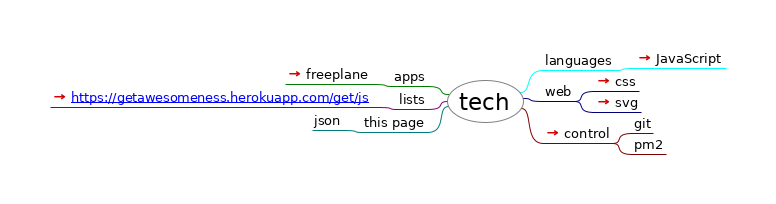
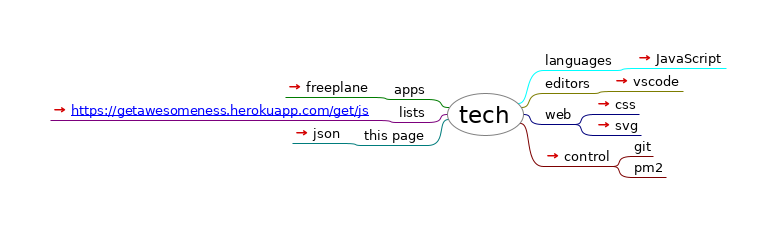
add lists and vscode

Changed region(s): [[0.0619, 0.2353, 0.9278, 0.7941], [0.5876, 0.5882, 0.6495, 0.6176]]

diff --git a/index.html b/index.html
@@ -23,24 +23,26 @@
                    };
                };
           
-          --></script></head><body><h1>tech</h1><div style="width:96%;  padding:2%;  margin-bottom:10px;  border: 0px;  text-align:center;  vertical-align:center;"><img src="index.html_files/image.png" style="margin-bottom:10px; &#9;border: 0px; &#9;text-align:center; &#9;vertical-align:center;" alt="Imagemap" usemap="#fm_imagemap" /></div><map name="fm_imagemap" id="fm_imagemap"><area shape="rect" href="#FMID_237352286FM" alt="tech" title="tech" coords="447,80,524,123" />
+          --></script></head><body><h1>tech</h1><div style="width:96%;  padding:2%;  margin-bottom:10px;  border: 0px;  text-align:center;  vertical-align:center;"><img src="index.html_files/image.png" style="margin-bottom:10px; &#9;border: 0px; &#9;text-align:center; &#9;vertical-align:center;" alt="Imagemap" usemap="#fm_imagemap" /></div><map name="fm_imagemap" id="fm_imagemap"><area shape="rect" href="#FMID_237352286FM" alt="tech" title="tech" coords="447,93,524,136" />
 <area shape="rect" href="#FMID_1877121242FM" alt="languages" title="languages" coords="543,52,616,70" />
 <area shape="rect" href="https://melvincarvalho.github.io/JavaScript/" alt="JavaScript" title="JavaScript" coords="635,50,726,68" />
-<area shape="rect" href="#FMID_532002583FM" alt="web" title="web" coords="543,83,575,101" />
-<area shape="rect" href="css.html" alt="css" title="css" coords="594,73,639,91" />
-<area shape="rect" href="https://www.w3schools.com/graphics/svg_reference.asp" alt="svg" title="svg" coords="594,94,641,112" />
-<area shape="rect" href="control/index.html" alt="control" title="control" coords="543,125,613,143" />
-<area shape="rect" href="#FMID_1536156446FM" alt="git" title="git" coords="632,115,653,133" />
-<area shape="rect" href="#FMID_901084502FM" alt="pm2" title="pm2" coords="632,136,666,154" />
-<area shape="rect" href="#FMID_453742222FM" alt="apps" title="apps" coords="392,68,428,86" />
-<area shape="rect" href="freeplane.html" alt="freeplane" title="freeplane" coords="285,66,373,84" />
-<area shape="rect" href="#FMID_21985093FM" alt="lists" title="lists" coords="397,91,428,109" />
-<area shape="rect" href="https://getawesomeness.herokuapp.com/get/js" alt="https://getawesomeness.herokuapp.com/get ..." title="https://getawesomeness.herokuapp.com/get ..." coords="50,89,378,107" />
-<area shape="rect" href="#FMID_117142409FM" alt="this page" title="this page" coords="362,114,428,132" />
-<area shape="rect" href="#FMID_485260235FM" alt="json" title="json" coords="312,112,343,130" />
+<area shape="rect" href="#FMID_1019017499FM" alt="editors" title="editors" coords="543,75,593,93" />
+<area shape="rect" href="https://code.visualstudio.com/" alt="vscode" title="vscode" coords="612,73,683,91" />
+<area shape="rect" href="#FMID_532002583FM" alt="web" title="web" coords="543,106,575,124" />
+<area shape="rect" href="css.html" alt="css" title="css" coords="594,96,639,114" />
+<area shape="rect" href="https://www.w3schools.com/graphics/svg_reference.asp" alt="svg" title="svg" coords="594,117,641,135" />
+<area shape="rect" href="control/index.html" alt="control" title="control" coords="543,148,613,166" />
+<area shape="rect" href="#FMID_1536156446FM" alt="git" title="git" coords="632,138,653,156" />
+<area shape="rect" href="#FMID_901084502FM" alt="pm2" title="pm2" coords="632,159,666,177" />
+<area shape="rect" href="#FMID_453742222FM" alt="apps" title="apps" coords="392,81,428,99" />
+<area shape="rect" href="freeplane.html" alt="freeplane" title="freeplane" coords="285,79,373,97" />
+<area shape="rect" href="#FMID_21985093FM" alt="lists" title="lists" coords="397,104,428,122" />
+<area shape="rect" href="https://getawesomeness.herokuapp.com/get/js" alt="https://getawesomeness.herokuapp.com/get ..." title="https://getawesomeness.herokuapp.com/get ..." coords="50,102,378,120" />
+<area shape="rect" href="#FMID_117142409FM" alt="this page" title="this page" coords="362,127,428,145" />
+<area shape="rect" href="index.json" alt="json" title="json" coords="292,125,343,143" />
 </map>
 
-<div class="node"><img src="index.html_files/hide.png" class="hideshow" alt="hide" onClick="toggle(&quot;N65543&quot;)" id="imgN65543" /><a id="FMID_237352286FM" /><div class="nodecontent" style="color:#000000;font-size:150%;">tech</div><div class="content" id="N65543"><div class="node"><img src="index.html_files/hide.png" class="hideshow" alt="hide" onClick="toggle(&quot;N66439&quot;)" id="imgN66439" /><a id="FMID_1877121242FM" /><div class="nodecontent" style="color:#000000;font-size:83%;">languages</div><div class="content" id="N66439"><div class="node"><img src="index.html_files/leaf.png" class="hideshow" alt="leaf" /><a id="FMID_546595456FM" /><div class="nodecontent" style="color:#000000;font-size:83%;"><a href="https://melvincarvalho.github.io/JavaScript/">JavaScript</a> <a href="https://melvincarvalho.github.io/JavaScript/"><img src="index.html_files/ilink.png" alt="User Link" style="border-width:0" /></a></div></div></div></div><div class="node"><img src="index.html_files/hide.png" class="hideshow" alt="hide" onClick="toggle(&quot;N66513&quot;)" id="imgN66513" /><a id="FMID_532002583FM" /><div class="nodecontent" style="color:#000000;font-size:83%;">web</div><div class="content" id="N66513"><div class="node"><img src="index.html_files/leaf.png" class="hideshow" alt="leaf" /><a id="FMID_1846113849FM" /><div class="nodecontent" style="color:#000000;font-size:83%;"><a href="css.html">css</a> <a href="css.html"><img src="index.html_files/ilink.png" alt="User Link" style="border-width:0" /></a></div></div><div class="node"><img src="index.html_files/leaf.png" class="hideshow" alt="leaf" /><a id="FMID_428457042FM" /><div class="nodecontent" style="color:#000000;font-size:83%;"><a href="https://www.w3schools.com/graphics/svg_reference.asp">svg</a> <a href="https://www.w3schools.com/graphics/svg_reference.asp"><img src="index.html_files/ilink.png" alt="User Link" style="border-width:0" /></a></div></div></div></div><div class="node"><img src="index.html_files/hide.png" class="hideshow" alt="hide" onClick="toggle(&quot;N66624&quot;)" id="imgN66624" /><a id="FMID_1041005677FM" /><div class="nodecontent" style="color:#000000;font-size:83%;"><a href="control/index.html">control</a> <a href="control/index.html"><img src="index.html_files/ilink.png" alt="User Link" style="border-width:0" /></a></div><div class="content" id="N66624"><div class="node"><img src="index.html_files/leaf.png" class="hideshow" alt="leaf" /><a id="FMID_1536156446FM" /><div class="nodecontent" style="color:#000000;font-size:83%;">git</div></div><div class="node"><img src="index.html_files/leaf.png" class="hideshow" alt="leaf" /><a id="FMID_901084502FM" /><div class="nodecontent" style="color:#000000;font-size:83%;">pm2</div></div></div></div><div class="node"><img src="index.html_files/hide.png" class="hideshow" alt="hide" onClick="toggle(&quot;N66734&quot;)" id="imgN66734" /><a id="FMID_453742222FM" /><div class="nodecontent" style="color:#000000;font-size:83%;">apps</div><div class="content" id="N66734"><div class="node"><img src="index.html_files/leaf.png" class="hideshow" alt="leaf" /><a id="FMID_756649779FM" /><div class="nodecontent" style="color:#000000;font-size:83%;"><a href="freeplane.html">freeplane</a> <a href="freeplane.html"><img src="index.html_files/ilink.png" alt="User Link" style="border-width:0" /></a></div></div></div></div><div class="node"><img src="index.html_files/hide.png" class="hideshow" alt="hide" onClick="toggle(&quot;N66808&quot;)" id="imgN66808" /><a id="FMID_21985093FM" /><div class="nodecontent" style="color:#000000;font-size:83%;">lists</div><div class="content" id="N66808"><div class="node"><img src="index.html_files/leaf.png" class="hideshow" alt="leaf" /><a id="FMID_588856980FM" /><div class="nodecontent" style="color:#000000;font-size:83%;"><a href="https://getawesomeness.herokuapp.com/get/js">
+<div class="node"><img src="index.html_files/hide.png" class="hideshow" alt="hide" onClick="toggle(&quot;N65543&quot;)" id="imgN65543" /><a id="FMID_237352286FM" /><div class="nodecontent" style="color:#000000;font-size:150%;">tech</div><div class="content" id="N65543"><div class="node"><img src="index.html_files/hide.png" class="hideshow" alt="hide" onClick="toggle(&quot;N66439&quot;)" id="imgN66439" /><a id="FMID_1877121242FM" /><div class="nodecontent" style="color:#000000;font-size:83%;">languages</div><div class="content" id="N66439"><div class="node"><img src="index.html_files/leaf.png" class="hideshow" alt="leaf" /><a id="FMID_546595456FM" /><div class="nodecontent" style="color:#000000;font-size:83%;"><a href="https://melvincarvalho.github.io/JavaScript/">JavaScript</a> <a href="https://melvincarvalho.github.io/JavaScript/"><img src="index.html_files/ilink.png" alt="User Link" style="border-width:0" /></a></div></div></div></div><div class="node"><img src="index.html_files/hide.png" class="hideshow" alt="hide" onClick="toggle(&quot;N66513&quot;)" id="imgN66513" /><a id="FMID_1019017499FM" /><div class="nodecontent" style="color:#000000;font-size:83%;">editors</div><div class="content" id="N66513"><div class="node"><img src="index.html_files/leaf.png" class="hideshow" alt="leaf" /><a id="FMID_847676993FM" /><div class="nodecontent" style="color:#000000;font-size:83%;"><a href="https://code.visualstudio.com/">vscode</a> <a href="https://code.visualstudio.com/"><img src="index.html_files/ilink.png" alt="User Link" style="border-width:0" /></a></div></div></div></div><div class="node"><img src="index.html_files/hide.png" class="hideshow" alt="hide" onClick="toggle(&quot;N66587&quot;)" id="imgN66587" /><a id="FMID_532002583FM" /><div class="nodecontent" style="color:#000000;font-size:83%;">web</div><div class="content" id="N66587"><div class="node"><img src="index.html_files/leaf.png" class="hideshow" alt="leaf" /><a id="FMID_1846113849FM" /><div class="nodecontent" style="color:#000000;font-size:83%;"><a href="css.html">css</a> <a href="css.html"><img src="index.html_files/ilink.png" alt="User Link" style="border-width:0" /></a></div></div><div class="node"><img src="index.html_files/leaf.png" class="hideshow" alt="leaf" /><a id="FMID_428457042FM" /><div class="nodecontent" style="color:#000000;font-size:83%;"><a href="https://www.w3schools.com/graphics/svg_reference.asp">svg</a> <a href="https://www.w3schools.com/graphics/svg_reference.asp"><img src="index.html_files/ilink.png" alt="User Link" style="border-width:0" /></a></div></div></div></div><div class="node"><img src="index.html_files/hide.png" class="hideshow" alt="hide" onClick="toggle(&quot;N66698&quot;)" id="imgN66698" /><a id="FMID_1041005677FM" /><div class="nodecontent" style="color:#000000;font-size:83%;"><a href="control/index.html">control</a> <a href="control/index.html"><img src="index.html_files/ilink.png" alt="User Link" style="border-width:0" /></a></div><div class="content" id="N66698"><div class="node"><img src="index.html_files/leaf.png" class="hideshow" alt="leaf" /><a id="FMID_1536156446FM" /><div class="nodecontent" style="color:#000000;font-size:83%;">git</div></div><div class="node"><img src="index.html_files/leaf.png" class="hideshow" alt="leaf" /><a id="FMID_901084502FM" /><div class="nodecontent" style="color:#000000;font-size:83%;">pm2</div></div></div></div><div class="node"><img src="index.html_files/hide.png" class="hideshow" alt="hide" onClick="toggle(&quot;N66808&quot;)" id="imgN66808" /><a id="FMID_453742222FM" /><div class="nodecontent" style="color:#000000;font-size:83%;">apps</div><div class="content" id="N66808"><div class="node"><img src="index.html_files/leaf.png" class="hideshow" alt="leaf" /><a id="FMID_756649779FM" /><div class="nodecontent" style="color:#000000;font-size:83%;"><a href="freeplane.html">freeplane</a> <a href="freeplane.html"><img src="index.html_files/ilink.png" alt="User Link" style="border-width:0" /></a></div></div></div></div><div class="node"><img src="index.html_files/hide.png" class="hideshow" alt="hide" onClick="toggle(&quot;N66882&quot;)" id="imgN66882" /><a id="FMID_21985093FM" /><div class="nodecontent" style="color:#000000;font-size:83%;">lists</div><div class="content" id="N66882"><div class="node"><img src="index.html_files/leaf.png" class="hideshow" alt="leaf" /><a id="FMID_588856980FM" /><div class="nodecontent" style="color:#000000;font-size:83%;"><a href="https://getawesomeness.herokuapp.com/get/js">
     <a http-equiv="content-type" content="text/html; charset=utf-8" href="https://getawesomeness.herokuapp.com/get/js">https://getawesomeness.herokuapp.com/get/js</a> 
-  </a> <a href="https://getawesomeness.herokuapp.com/get/js"><img src="index.html_files/ilink.png" alt="User Link" style="border-width:0" /></a></div></div></div></div><div class="node"><img src="index.html_files/hide.png" class="hideshow" alt="hide" onClick="toggle(&quot;N66900&quot;)" id="imgN66900" /><a id="FMID_117142409FM" /><div class="nodecontent" style="color:#000000;font-size:83%;">this page</div><div class="content" id="N66900"><div class="node"><img src="index.html_files/leaf.png" class="hideshow" alt="leaf" /><a id="FMID_485260235FM" /><div class="nodecontent" style="color:#000000;font-size:83%;">json</div></div></div></div></div></div>
+  </a> <a href="https://getawesomeness.herokuapp.com/get/js"><img src="index.html_files/ilink.png" alt="User Link" style="border-width:0" /></a></div></div></div></div><div class="node"><img src="index.html_files/hide.png" class="hideshow" alt="hide" onClick="toggle(&quot;N66974&quot;)" id="imgN66974" /><a id="FMID_117142409FM" /><div class="nodecontent" style="color:#000000;font-size:83%;">this page</div><div class="content" id="N66974"><div class="node"><img src="index.html_files/leaf.png" class="hideshow" alt="leaf" /><a id="FMID_485260235FM" /><div class="nodecontent" style="color:#000000;font-size:83%;"><a href="index.json">json</a> <a href="index.json"><img src="index.html_files/ilink.png" alt="User Link" style="border-width:0" /></a></div></div></div></div></div></div>
 </body></html>

diff --git a/index.mm b/index.mm
@@ -63,10 +63,14 @@
 </stylenode>
 </map_styles>
 </hook>
-<hook NAME="AutomaticEdgeColor" COUNTER="10" RULE="ON_BRANCH_CREATION"/>
+<hook NAME="AutomaticEdgeColor" COUNTER="11" RULE="ON_BRANCH_CREATION"/>
 <node TEXT="languages" POSITION="right" ID="ID_1877121242" CREATED="1570900220418" MODIFIED="1570900223004">
 <edge COLOR="#00ffff"/>
 <node TEXT="JavaScript" ID="ID_546595456" CREATED="1570576879455" MODIFIED="1570900226429" LINK="https://melvincarvalho.github.io/JavaScript/"/>
+</node>
+<node TEXT="editors" POSITION="right" ID="ID_1019017499" CREATED="1571731938237" MODIFIED="1571731939889">
+<edge COLOR="#7c7c00"/>
+<node TEXT="vscode" ID="ID_847676993" CREATED="1571731940861" MODIFIED="1571732008363" LINK="https://code.visualstudio.com/"/>
 </node>
 <node TEXT="web" POSITION="right" ID="ID_532002583" CREATED="1571333469724" MODIFIED="1571333472059">
 <edge COLOR="#00007c"/>
